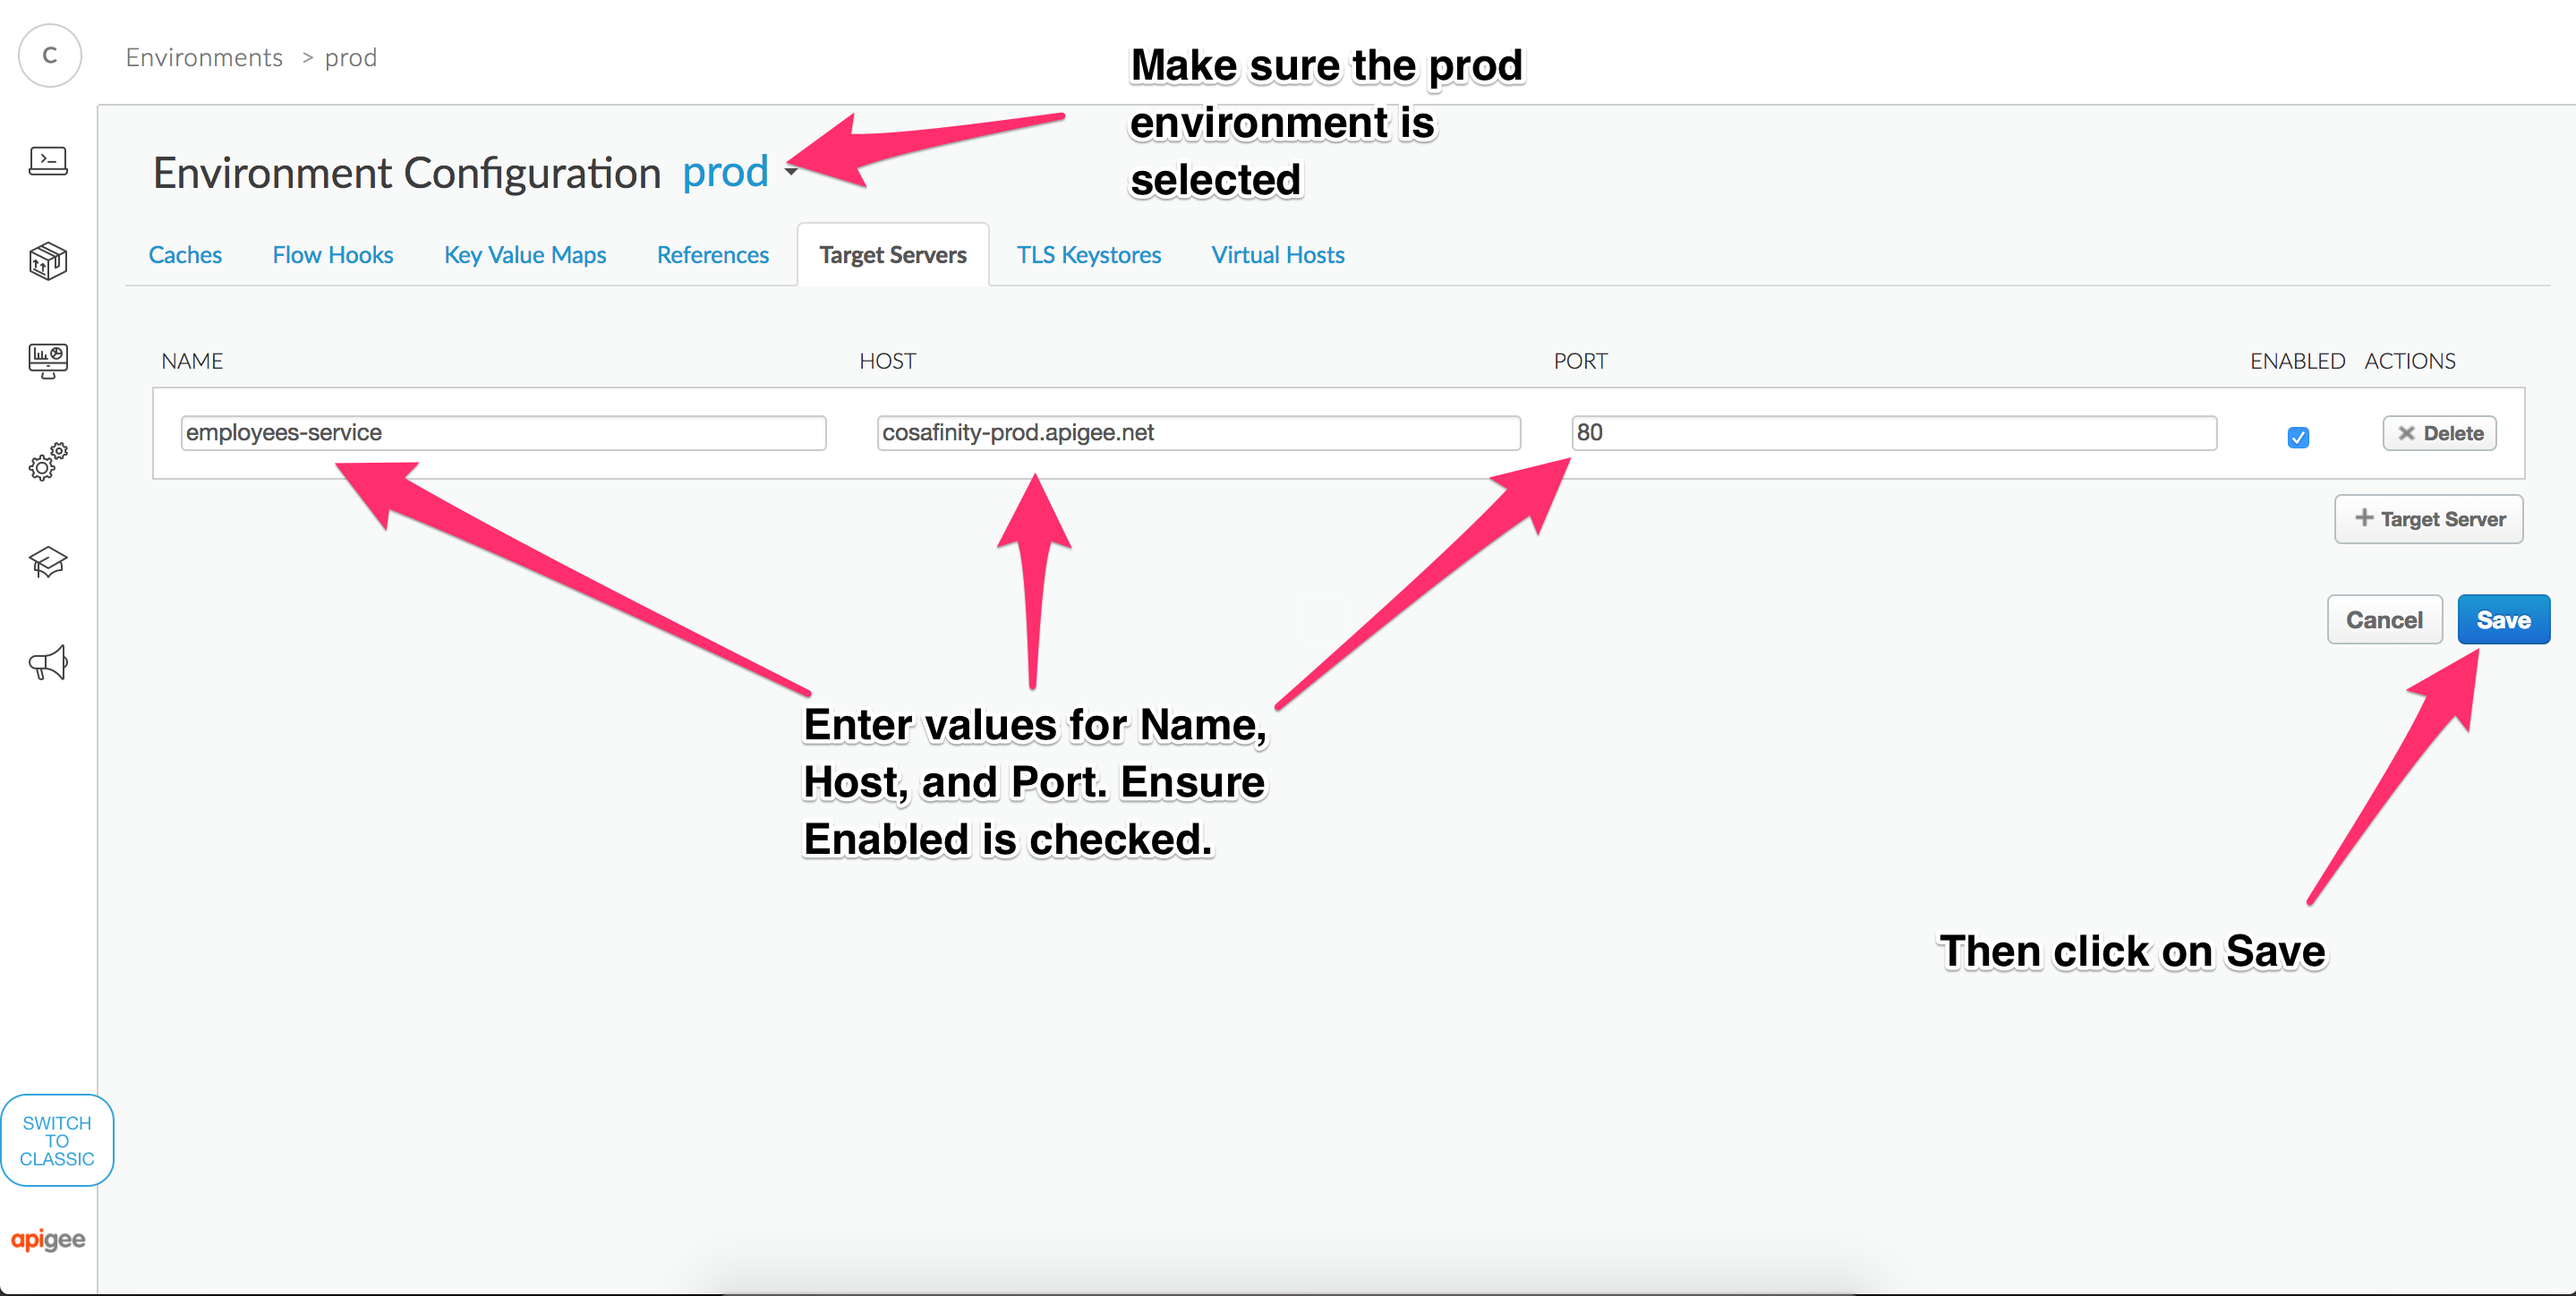
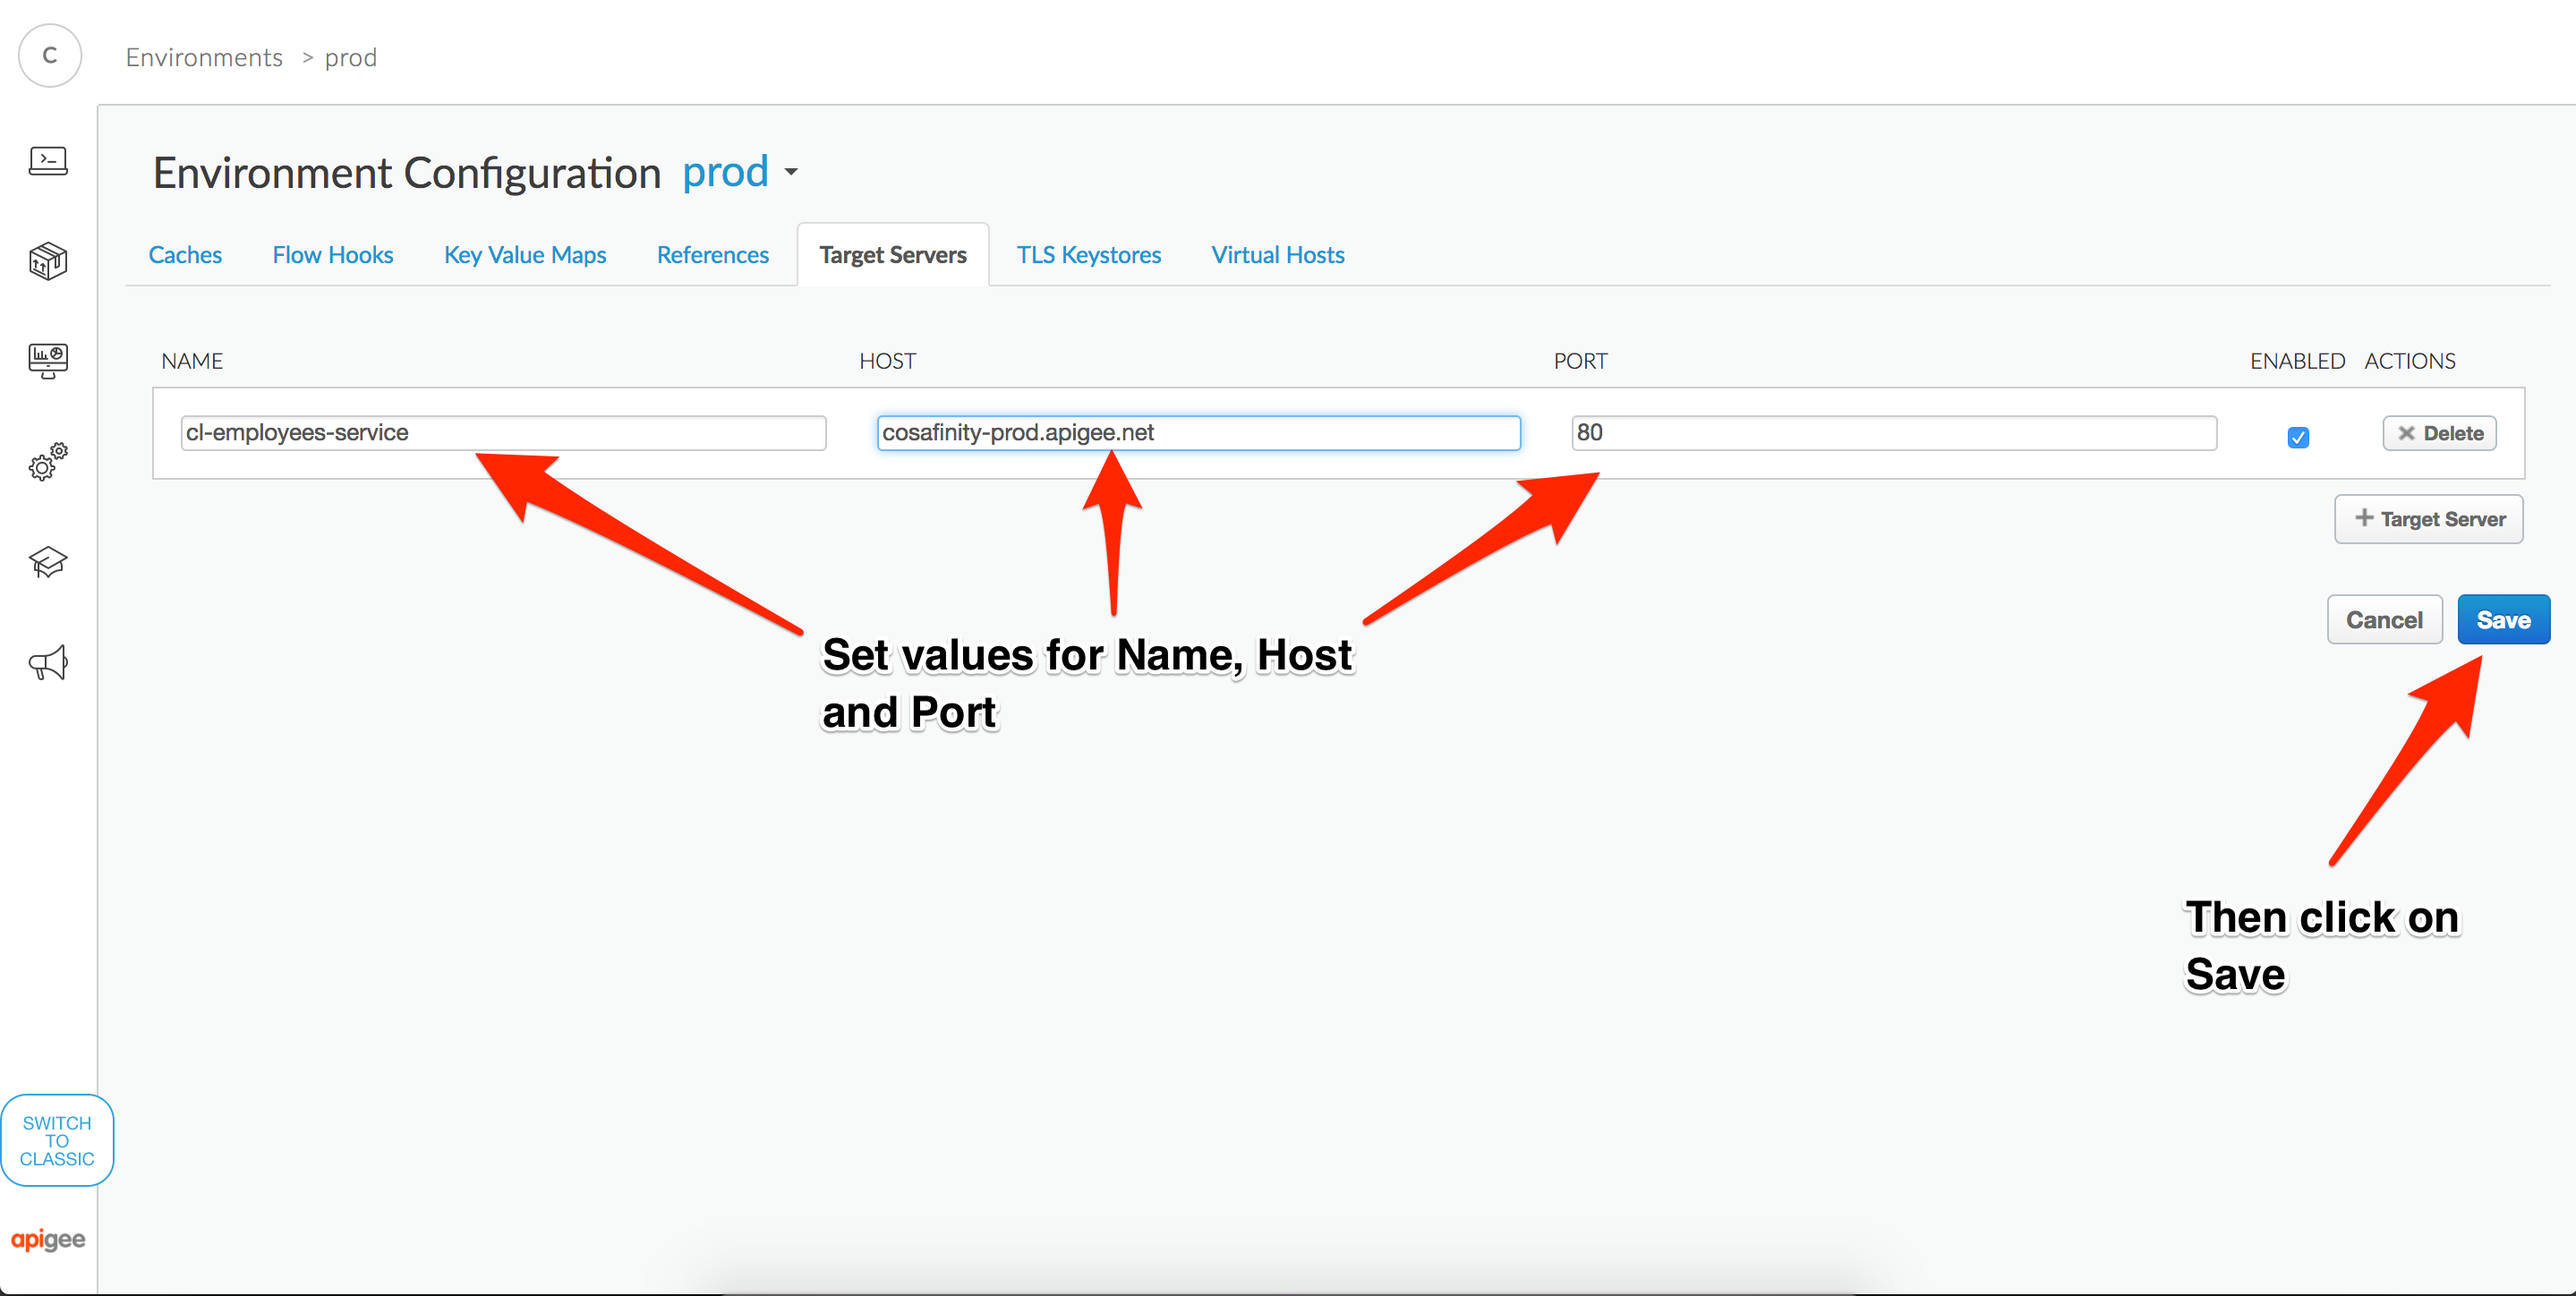
Target Endpoints Lab WIP

diff --git a/Labs/Appendix/API Development - Target Endpoints/README.md b/Labs/Appendix/API Development - Target Endpoints/README.md
@@ -36,9 +36,9 @@ None
 
 ![New target server](./media/new-target-server.png)
 
-* Making sure the prod environment is selected, enter the following values for your production target server:
+* Making sure the prod environment is selected, enter the following values for your production target server, then save your configuration:
 
-Name: employees-service
+Name: {your-initials}-employees-service
 Host: cosafinity-prod.apigee.net
 Port: 80
 Enabled: checked
@@ -59,13 +59,13 @@ You should see a message indicating your target server was created successfully 
 
 ![New target server](./media/new-target-server-test.png)
 
-* Making sure the test environment is selected, enter the following values for your test target server:
+* Making sure the test environment is selected, enter the following values for your test target server then save your configuration:
 
-Name: employees-service
+Name: {your-initials}-employees-service
 Host: cosafinity-test.apigee.net
 Port: 80
 Enabled: checked
 
 ![Populate target server](./media/populate-test-target-server.png)
 
-
+At this point we now have created our target server for the *Employees Service* in both the test and prod environments. 
